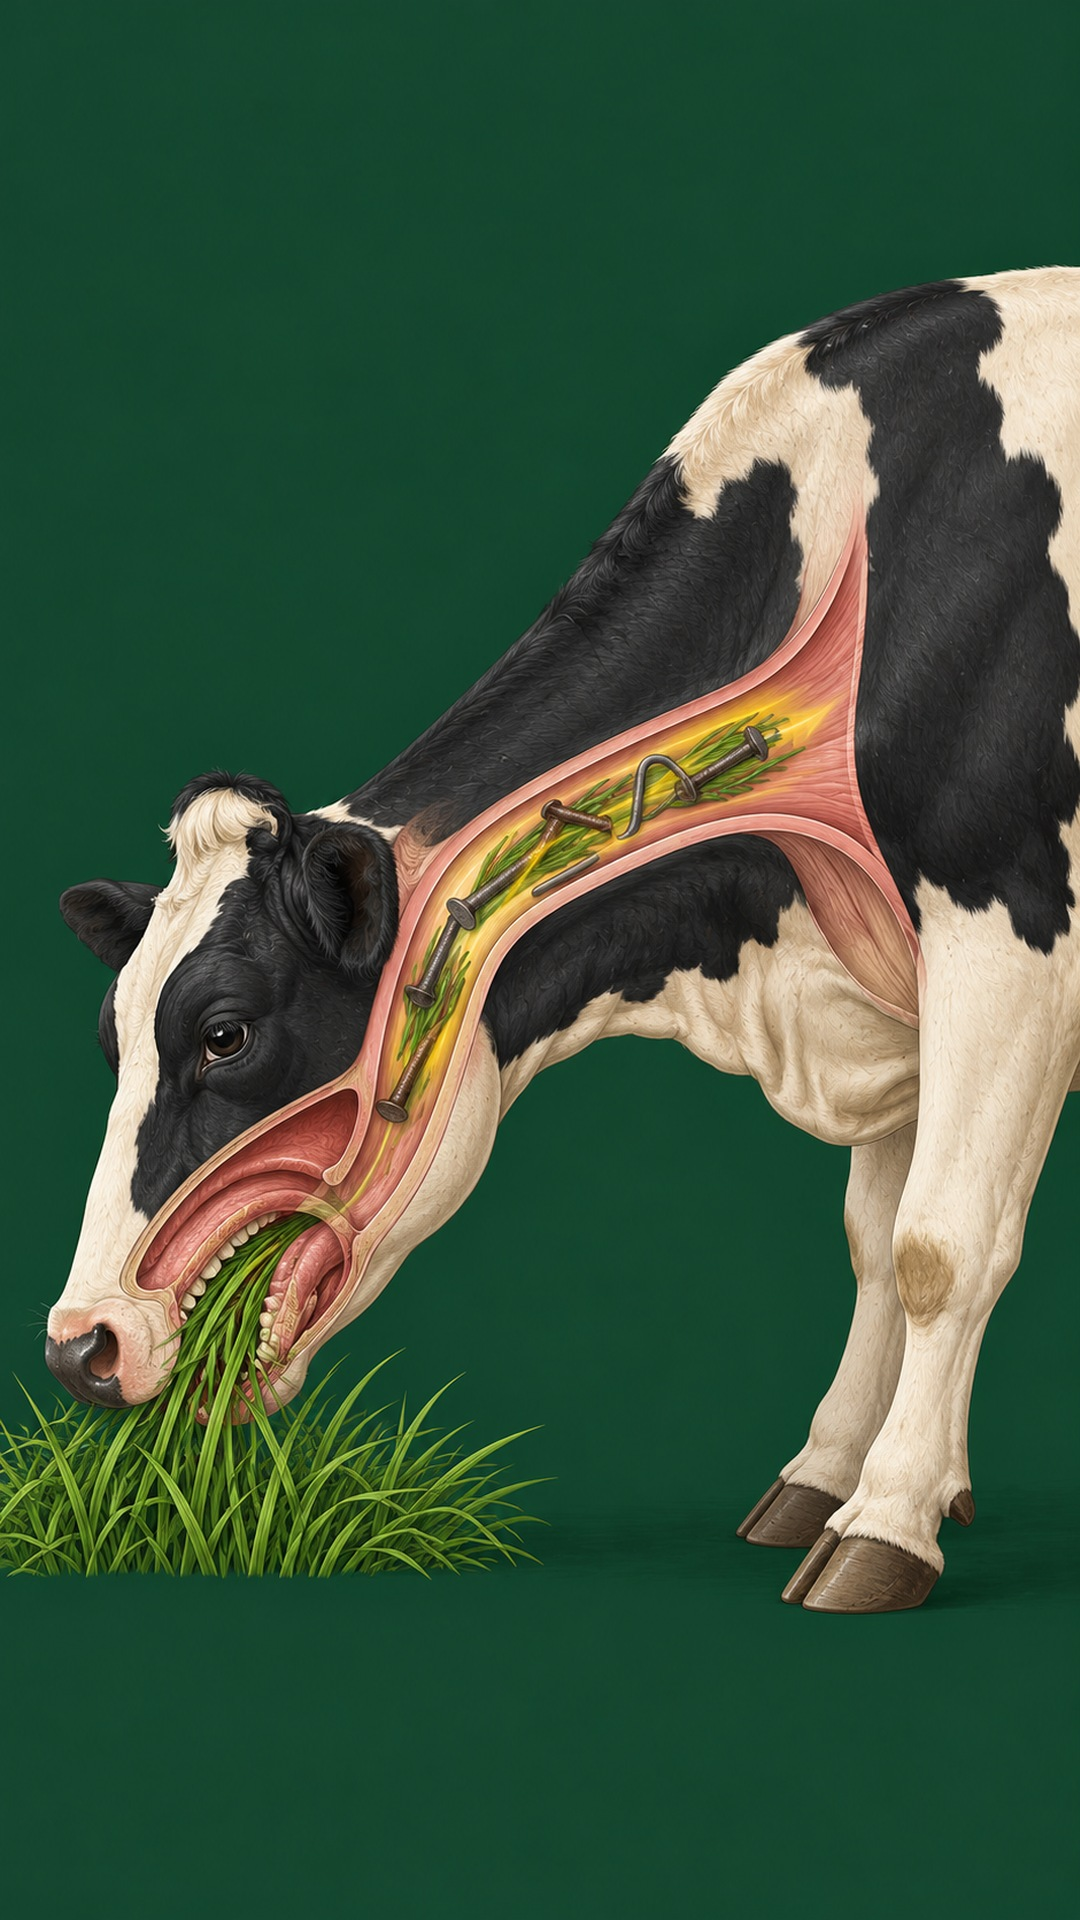
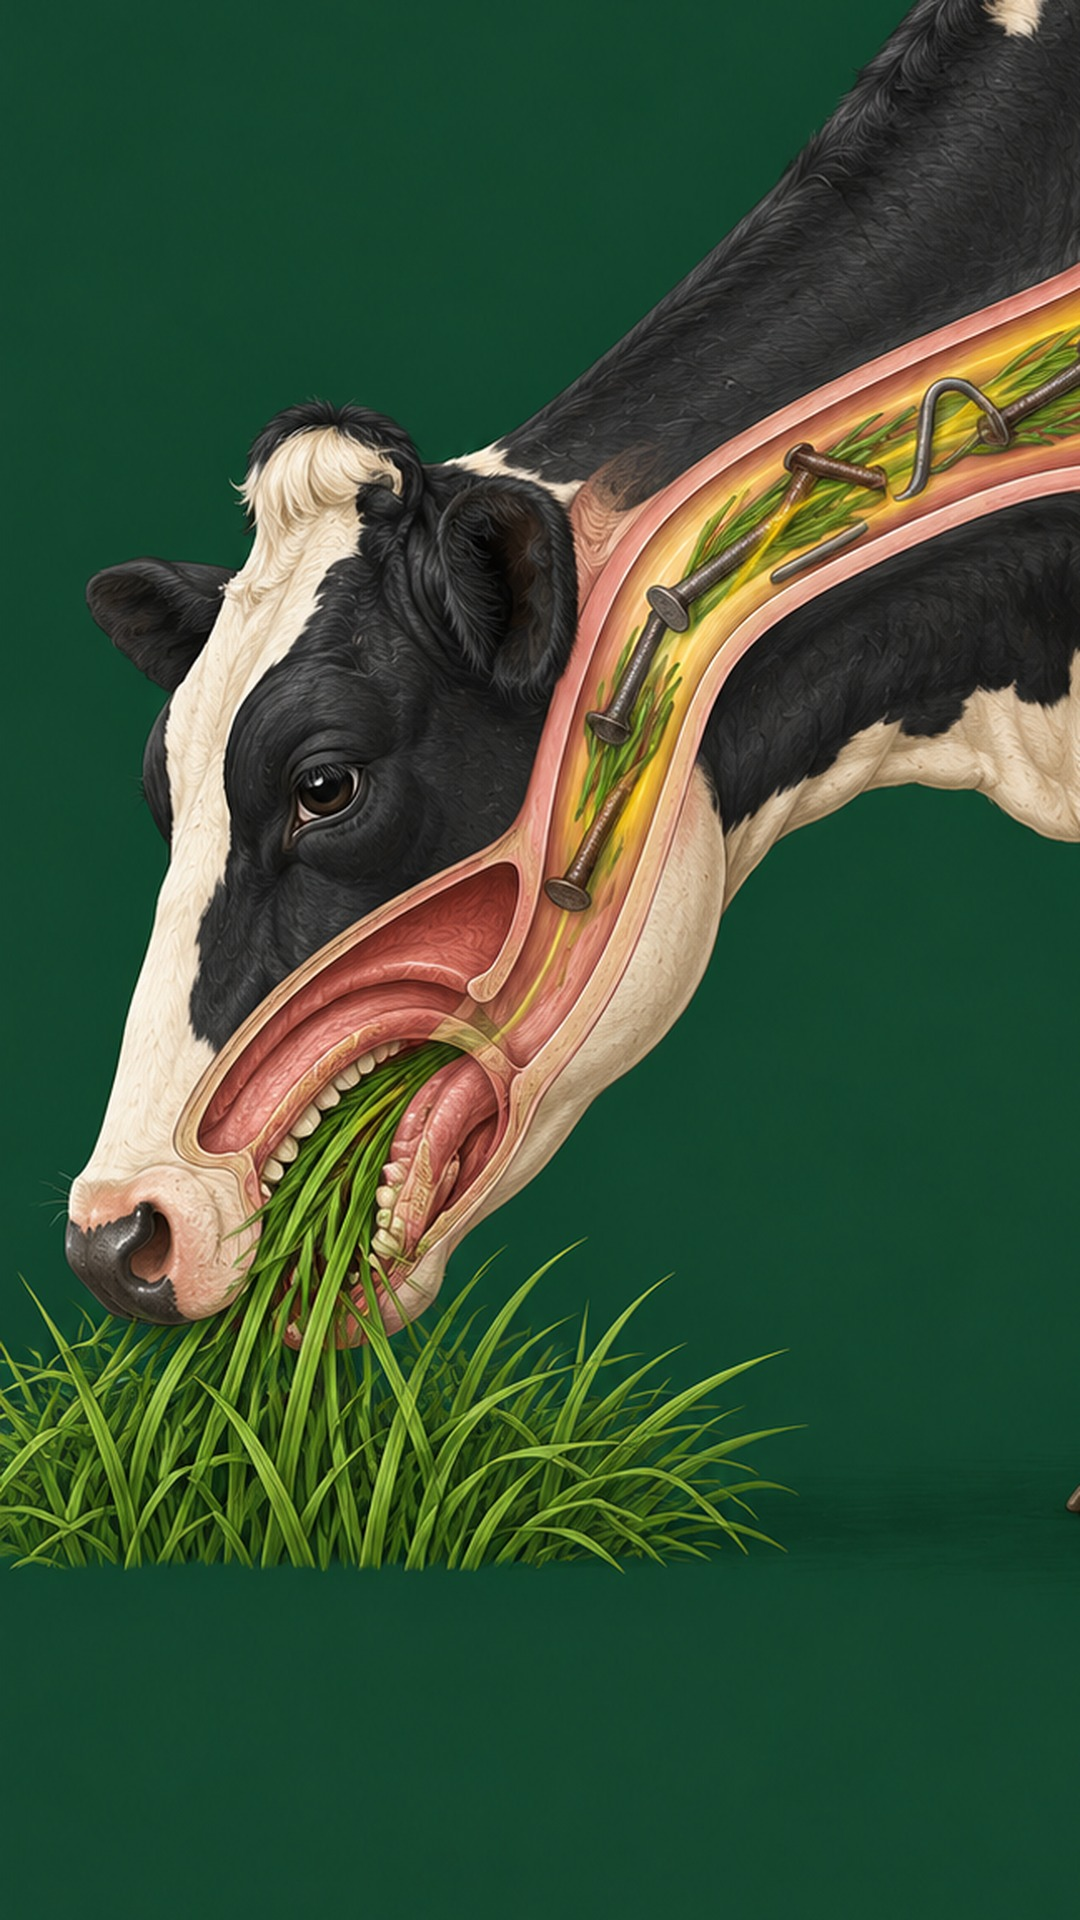
s020の③に寄り移動を付け、組み立てをスクリプト化した
③(草ごと金属を飲み込む)が12.48秒あり、静止画1枚では持たなかった。
分割ではなく1枚の寄り移動を選んだ。この図は「口→食道→胸」という経路そのものを
描いているため、カメラがその経路をたどれば動きが説明になり、
ナレーションの2文の順番とも一致する。

  前半「牛は草をほとんど噛まずに飲み込みます」→ 口元、草をくわえている
  後半「針金や釘も、そのまま胃に入ります」  → 食道の釘から胸へ抜ける

実装で分かったこと:
- 最初はズームアウトを併用したが、「経路をたどる」ではなく「引いていく」ようにしか
  見えなかった。元画像が9:16で、横に振れる余地が22%程度しかないため
- ズームを1.45倍に固定し、移動だけで見せる形に変更したところ経路が読めるようになった
- 振れ幅は横292px・縦518px。口元(左下)から胸(右上)へ斜めに進む
- 出入りはsmoothstepでなめらかにしている

その他:
- assets/s020/build.py を追加。python3 build.py で組み立て直せる
- 他の4カットは静止画のまま。全部動かすと落ち着かない
- 尺は28.77秒。ナレーション28.76秒とほぼ一致

Claude-Session: https://claude.ai/code/session_01Ce6Dpth5zcxGGuzjS7zMLT

diff --git a/assets/s020/build.py b/assets/s020/build.py
@@ -1,0 +1,62 @@
+#!/usr/bin/env python3
+"""s020 の動画を組み立てる。
+
+  python3 build.py            # 出力: s020.mp4（1080x1920 / 30fps / 音声なし）
+
+③（草ごと金属を飲み込む）だけは静止画のままだと12.5秒が持たないため、
+1枚の図を「口元 → 食道の釘 → 胸」へ寄り移動させる。
+図そのものが経路を描いているので、カメラの移動がそのまま説明になる。
+"""
+import subprocess, pathlib, imageio_ffmpeg
+from PIL import Image
+
+HERE = pathlib.Path(__file__).parent
+FF   = imageio_ffmpeg.get_ffmpeg_exe()
+OW, OH, FPS = 1080, 1920, 30
+ENC  = "-c:v libx264 -preset medium -crf 20 -pix_fmt yuv420p -r 30 -an".split()
+
+# (画像, 秒数, 動かすか)
+CUTS = [("f1.jpg", 2.88, False),   # 牛
+        ("f2.jpg", 3.84, False),   # 牛用磁石
+        ("f3.jpg", 12.48, True),   # 飲み込み ← ここだけ動かす
+        ("f4.jpg", 6.72, False),   # 第二胃の磁石
+        ("f5.jpg", 2.88, False)]   # 牛の顔アップ
+
+# ③の寄り移動：ズームは固定し、移動だけで見せる。
+# 元画像が9:16なので横に振れる余地が少なく、ズームを変えると「引き」に見えてしまう。
+PAN = dict(zoom=1.45, start=(0.00, 0.83), end=(1.00, 0.17))   # (x, y) は振れ幅に対する割合
+
+def render_pan(src, dur, outdir):
+    im = Image.open(HERE/src).convert("RGB"); W, H = im.size
+    cw = W/PAN["zoom"]; ch = cw*OH/OW
+    tx, ty = W-cw, H-ch
+    n = round(FPS*dur)
+    outdir.mkdir(exist_ok=True)
+    for f in outdir.glob("*.jpg"): f.unlink()
+    for i in range(n):
+        t = (lambda u: u*u*(3-2*u))(i/(n-1))          # 出入りをなめらかに
+        x = (PAN["start"][0] + (PAN["end"][0]-PAN["start"][0])*t) * tx
+        y = (PAN["start"][1] + (PAN["end"][1]-PAN["start"][1])*t) * ty
+        im.crop((round(x), round(y), round(x+cw), round(y+ch))) \
+          .resize((OW, OH), Image.LANCZOS).save(outdir/f"f{i:04d}.jpg", quality=92)
+    return n
+
+def main():
+    segs = []
+    for i, (img, dur, moving) in enumerate(CUTS, 1):
+        seg = HERE/f"_seg{i}.mp4"
+        if moving:
+            d = HERE/"_pan"; render_pan(img, dur, d)
+            cmd = [FF, "-y", "-loglevel", "error", "-framerate", str(FPS), "-i", str(d/"f%04d.jpg")]
+        else:
+            cmd = [FF, "-y", "-loglevel", "error", "-loop", "1", "-t", str(dur), "-i", str(HERE/img)]
+        subprocess.run(cmd + ENC + [str(seg)], check=True)
+        segs.append(seg)
+    lst = HERE/"_segs.txt"
+    lst.write_text("".join(f"file '{s.name}'\n" for s in segs))
+    subprocess.run([FF, "-y", "-loglevel", "error", "-f", "concat", "-safe", "0",
+                    "-i", str(lst), "-c", "copy", str(HERE/"s020.mp4")], check=True)
+    print("s020.mp4")
+
+if __name__ == "__main__":
+    main()

diff --git a/assets/s020/README.md b/assets/s020/README.md
@@ -13,11 +13,28 @@
 ## 組み立て
 
 ```
-ffmpeg -f concat -safe 0 -i list.txt \
-  -vf "fps=30,format=yuv420p" -c:v libx264 -preset medium -crf 20 -an out.mp4
+python3 build.py     # → s020.mp4
 ```
 
-出力：1080×1920 / 30fps / 28.83秒 / 音声なし
+出力：1080×1920 / 30fps / 28.77秒 / 音声なし
+
+### ③だけ動かしている
+
+12.48秒を静止画1枚で持たせるのは無理なので、**1枚の図を寄り移動させている**。
+この図は「口 → 食道 → 胸」という**経路そのものを描いている**ので、
+カメラがその経路をたどれば、動きがそのまま説明になる。ナレーションの2文とも一致する。
+
+| | ナレーション | 画 |
+|---|---|---|
+| 前半 | 牛は草をほとんど噛まずに飲み込みます。 | 口元。草をくわえている |
+| 後半 | だから牧草に混ざった針金や釘も、そのまま胃に入ります。 | 食道の釘 → 胸へ抜ける |
+
+**ズームは1.45倍に固定し、移動だけで見せている。**
+最初はズームアウトを併用したが、元画像が9:16で横に振れる余地が少ないため、
+「経路をたどる」ではなく「引いていく」ようにしか見えなかった。
+ズームを動かさないほうが移動が読める。
+
+他の4カットは静止画のまま。全部動かすと落ち着かない。
 
 ## テロップを乗せる位置
 
